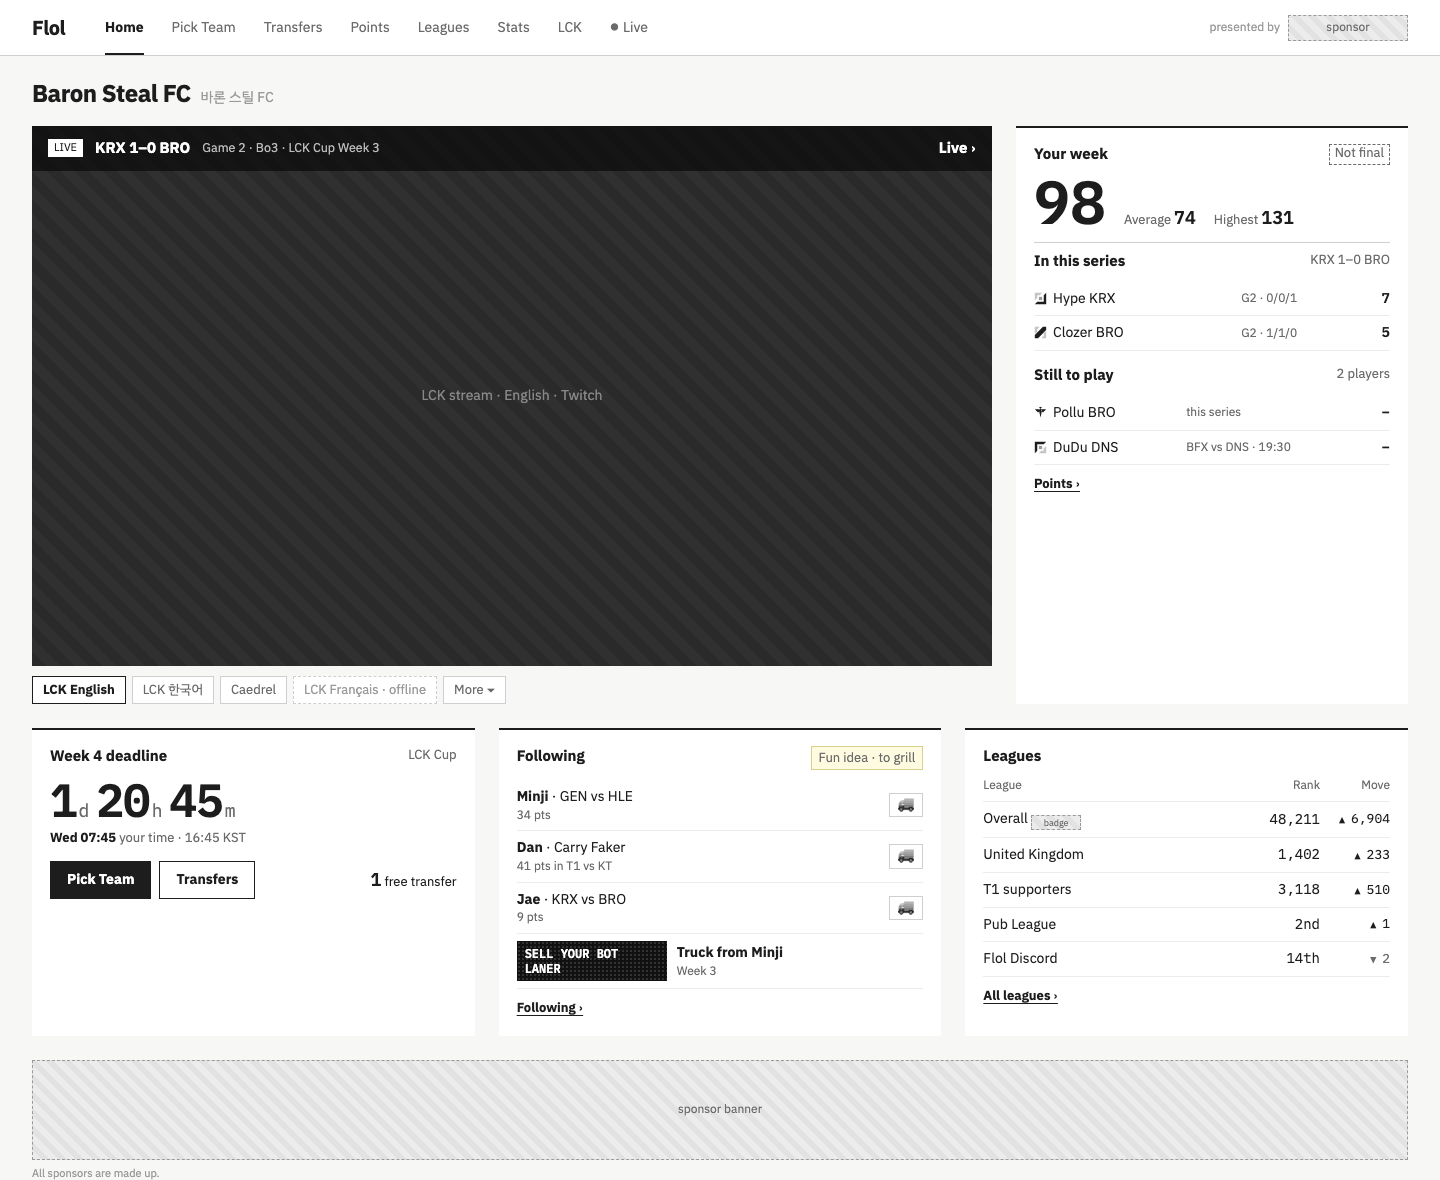
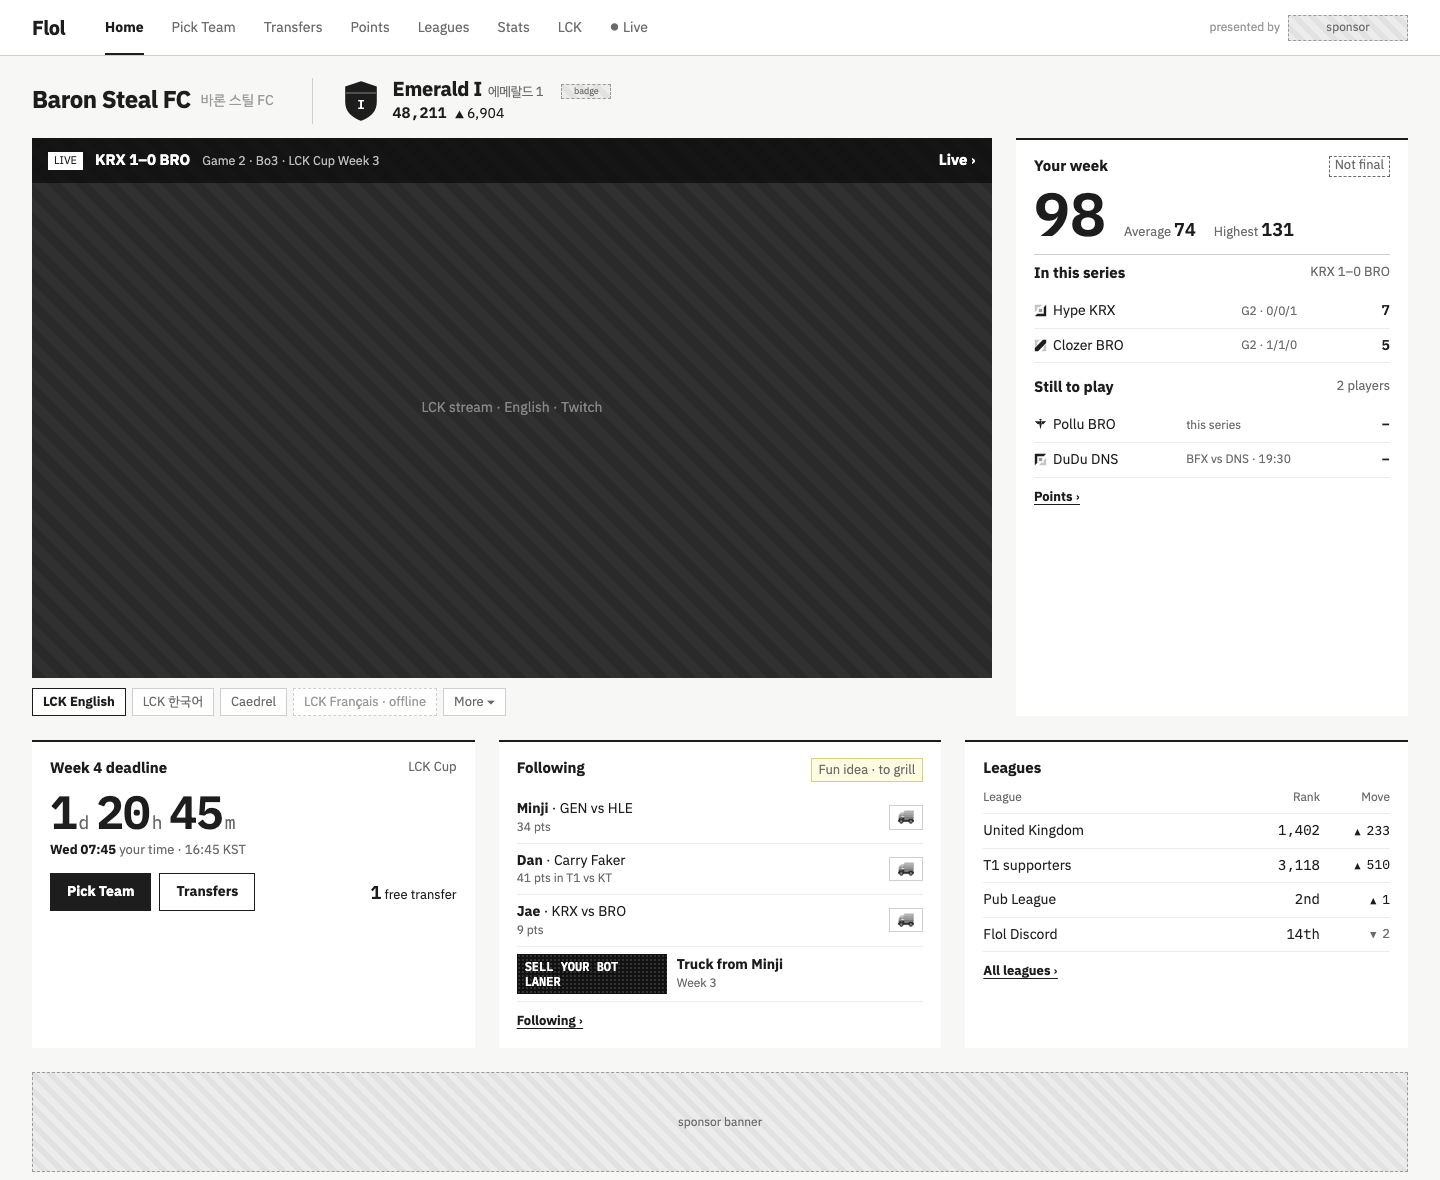
docs: Home redrawn; Overall as a LoL tier with a shield by the team name

diff --git a/docs/design/approved/home/idle.html b/docs/design/approved/home/idle.html
@@ -70,6 +70,16 @@ table.lg { width: 100%; border-collapse: collapse; font-size: 14px; } table.lg t
 .fd small { display: block; color: var(--mid); font-size: 12px; } .fd .tk { border: 1px solid var(--line); padding: 2px 8px; font-size: 13px; filter: grayscale(1); }
 .fd.in { grid-template-columns: 150px 1fr; }
 .idea { display: inline-block; background: #fffbe0; border: 1px solid #d8cf8a; color: #5a5420; font-size: 11px; padding: 2px 7px; margin-left: 8px; font-weight: 400; }
+.top2 { align-items: center; }
+.rankc { display: flex; align-items: center; gap: 12px; margin-left: 28px; padding-left: 28px; border-left: 1px solid var(--line); }
+.rankc svg { width: 40px; height: 46px; display: block; }
+.rankc .tn { font-size: 20px; font-weight: 700; letter-spacing: -.3px; line-height: 1.1; }
+.rankc .tn i { font-style: normal; font-weight: 400; color: var(--mid); font-size: 13px; margin-left: 6px; }
+.rankc .rt { font-size: 14px; color: var(--mid); margin-top: 2px; } .rankc .rt b { font-family: "IBM Plex Mono", monospace; color: var(--ink); font-size: 15px; margin-right: 8px; }
+.gup { color: #1f8a3c; font-weight: 600; } .gup::before { content: "▲ "; font-size: 10px; }
+.board { margin-top: 36px; border-top: 1px dashed var(--soft); padding-top: 18px; }
+.board h3 { font-size: 15px; margin-bottom: 12px; }
+.board .st { color: var(--mid); font-size: 12px; margin-bottom: 4px; display: block; }
 </style></head><body>
 <svg width="0" height="0" style="position:absolute">
   <defs>
@@ -87,7 +97,7 @@ table.lg { width: 100%; border-collapse: collapse; font-size: 14px; } table.lg t
 <nav class="top"><b class="word">Flol</b><a class="on">Home</a><a>Pick Team</a><a>Transfers</a><a>Points</a><a>Leagues</a><a>Stats</a><a>LCK</a><a>Live</a><span class="sp"></span><span class="presented">presented by <span class="ph" style="width:120px;height:26px">sponsor</span></span></nav>
 
 <div class="page">
-<div class="top2"><h1>Baron Steal FC</h1><i>바론 스틸 FC</i><span class="sp"></span></div>
+<div class="top2"><h1>Baron Steal FC</h1><i>바론 스틸 FC</i><div class="rankc"><svg viewBox="0 0 40 46"><path d="M20 4 L35 9 V24 C35 33 28 39 20 42 C12 39 5 33 5 24 V9 Z" fill="#1d1d1d" stroke="#1d1d1d" stroke-width="1.6"/><path d="M5 15 H35" stroke="#fff" stroke-width="1" opacity=".45"/><text x="20" y="31" text-anchor="middle" font-family="IBM Plex Mono" font-weight="600" font-size="12" fill="#fff">I</text></svg><div><div class="tn">Emerald I<i>에메랄드 1</i></div><div class="rt"><b>48,211</b><span class="up">6,904</span></div></div><span class="ph" style="width:50px;height:15px;font-size:9px;margin-left:6px;align-self:flex-start;margin-top:6px">badge</span></div><span class="sp"></span></div>
 <div class="hero"><div><div class="screen"><div class="stage"><div class="cap"><b>Week 4 lineup</b><span>Baron Steal FC · 바론 스틸 FC</span></div><a class="pt">Pick Team ›</a><div class="p" style="left:22px"><svg class="sh" viewBox="0 0 56 50"><use href="#shirt"/></svg><span class="tm">HLE</span><div class="pl"><b>Zeus</b><span>TOP</span></div></div><div class="p" style="left:155px"><svg class="sh" viewBox="0 0 56 50"><use href="#shirt"/></svg><span class="tm">GEN</span><div class="pl"><b>Canyon</b><span>JUNGLE</span></div></div><div class="p" style="left:288px"><svg class="sh" viewBox="0 0 56 50"><use href="#shirt"/></svg><span class="tm">T1</span><span class=mk>C</span><div class="pl"><b>Faker</b><span>MID</span></div></div><div class="p" style="left:421px"><svg class="sh" viewBox="0 0 56 50"><use href="#shirt"/></svg><span class="tm">GEN</span><span class=mk>V</span><div class="pl"><b>Ruler</b><span>BOT</span></div></div><div class="p" style="left:554px"><svg class="sh" viewBox="0 0 56 50"><use href="#shirt"/></svg><span class="tm">HLE</span><div class="pl"><b>Delight</b><span>SUPPORT</span></div></div><div class="p" style="left:687px"><svg class="sh" viewBox="0 0 56 50"><use href="#shirt"/></svg><span class="tm">NS</span><div class="pl"><b>Kingen</b><span>FLEX · TOP</span></div></div><div class="p" style="left:820px"><svg class="sh" viewBox="0 0 56 50"><use href="#shirt"/></svg><span class="tm">T1</span><div class="pl"><b>kkOma</b><span>COACH</span></div></div>
 <div class="nx2"><span>Next on stream</span><b>GEN vs HLE</b><span>Wed 17:00 KST · in <b class="c">1d 21h</b></span></div></div></div></div><aside class="side"><h2>Week 3 <span>final</span></h2>
 <div class="tot"><span class="big">98</span><span class="sm">Average<b>74</b></span><span class="sm">Highest<b>131</b></span></div>
@@ -106,9 +116,8 @@ table.lg { width: 100%; border-collapse: collapse; font-size: 14px; } table.lg t
 <div class="fd in"><div class="led2" style="height:40px">SELL YOUR BOT LANER</div><div><b>Truck from Minji</b><small>Week 3</small></div></div>
 <a class="more">Following ›</a></section>
 <section><h2>Leagues</h2><table class="lg"><tr class="hd"><td>League</td><td class="n">Rank</td><td class="m">Move</td></tr>
-<tr><td>Overall <span class="ph" style="display:inline-flex;width:50px;height:15px;font-size:9px;vertical-align:-3px">badge</span></td><td class="n">48,211</td><td class="m up">6,904</td></tr>
 <tr><td>United Kingdom</td><td class="n">1,402</td><td class="m up">233</td></tr><tr><td>T1 supporters</td><td class="n">3,118</td><td class="m up">510</td></tr>
 <tr><td>Pub League</td><td class="n">2nd</td><td class="m up">1</td></tr><tr><td>Flol Discord</td><td class="n">14th</td><td class="m down">2</td></tr></table><a class="more">All leagues ›</a></section>
 </div>
 <div class="adrow"><div class="ph" style="height:100px">sponsor banner</div><div class="made">All sponsors are made up.</div></div>
-</div></body></html>
+<div class="board"><h3>The tier by the team name: every state</h3><div style="margin-bottom:14px"><span class="st">Before Week 1 final</span><div class="top2" style="margin:0"><h1>Baron Steal FC</h1><i>바론 스틸 FC</i><div class="rankc"><svg viewBox="0 0 40 46"><path d="M20 4 L35 9 V24 C35 33 28 39 20 42 C12 39 5 33 5 24 V9 Z" fill="#fff" stroke="#6b6b6b" stroke-width="1.6"/><text x="20" y="31" text-anchor="middle" font-family="IBM Plex Mono" font-weight="600" font-size="12" fill="#6b6b6b">–</text></svg><div><div class="tn" style="color:var(--mid)">Unranked</div></div><span class="ph" style="width:50px;height:15px;font-size:9px;margin-left:6px;align-self:flex-start;margin-top:6px">badge</span></div></div></div><div style="margin-bottom:14px"><span class="st">A division tier</span><div class="top2" style="margin:0"><h1>Baron Steal FC</h1><i>바론 스틸 FC</i><div class="rankc"><svg viewBox="0 0 40 46"><path d="M20 4 L35 9 V24 C35 33 28 39 20 42 C12 39 5 33 5 24 V9 Z" fill="#1d1d1d" stroke="#1d1d1d" stroke-width="1.6"/><path d="M5 15 H35" stroke="#fff" stroke-width="1" opacity=".45"/><text x="20" y="31" text-anchor="middle" font-family="IBM Plex Mono" font-weight="600" font-size="12" fill="#fff">I</text></svg><div><div class="tn">Emerald I<i>에메랄드 1</i></div><div class="rt"><b>48,211</b><span class="up">6,904</span></div></div><span class="ph" style="width:50px;height:15px;font-size:9px;margin-left:6px;align-self:flex-start;margin-top:6px">badge</span></div></div></div><div style="margin-bottom:14px"><span class="st">Master and Grandmaster</span><div class="top2" style="margin:0"><h1>Baron Steal FC</h1><i>바론 스틸 FC</i><div class="rankc"><svg viewBox="0 0 40 46"><path d="M20 1 L38 7 V24 C38 35 30 42 20 45 C10 42 2 35 2 24 V7 Z" fill="none" stroke="#1d1d1d" stroke-width="1.2"/><path d="M20 4 L35 9 V24 C35 33 28 39 20 42 C12 39 5 33 5 24 V9 Z" fill="#1d1d1d" stroke="#1d1d1d" stroke-width="1.6"/><path d="M5 15 H35" stroke="#fff" stroke-width="1" opacity=".45"/><text x="20" y="31" text-anchor="middle" font-family="IBM Plex Mono" font-weight="600" font-size="12" fill="#fff">M</text></svg><div><div class="tn">Master<i>마스터</i></div><div class="rt"><b>612</b><span class="up">88</span></div></div><span class="ph" style="width:50px;height:15px;font-size:9px;margin-left:6px;align-self:flex-start;margin-top:6px">badge</span></div></div></div><div style="margin-bottom:14px"><span class="st">Challenger</span><div class="top2" style="margin:0"><h1>Baron Steal FC</h1><i>바론 스틸 FC</i><div class="rankc"><svg viewBox="0 0 40 46"><path d="M20 1 L38 7 V24 C38 35 30 42 20 45 C10 42 2 35 2 24 V7 Z" fill="none" stroke="#1d1d1d" stroke-width="1.2"/><path d="M20 4 L35 9 V24 C35 33 28 39 20 42 C12 39 5 33 5 24 V9 Z" fill="#1d1d1d" stroke="#1d1d1d" stroke-width="1.6"/><path d="M5 15 H35" stroke="#fff" stroke-width="1" opacity=".45"/><text x="20" y="31" text-anchor="middle" font-family="IBM Plex Mono" font-weight="600" font-size="12" fill="#fff">C</text></svg><div><div class="tn">Challenger<i>챌린저</i></div><div class="rt"><b>4th</b><span class="gup">2</span></div></div><span class="ph" style="width:50px;height:15px;font-size:9px;margin-left:6px;align-self:flex-start;margin-top:6px">badge</span></div></div></div></div></div></body></html>

diff --git a/docs/design/approved/home/live.html b/docs/design/approved/home/live.html
@@ -70,6 +70,16 @@ table.lg { width: 100%; border-collapse: collapse; font-size: 14px; } table.lg t
 .fd small { display: block; color: var(--mid); font-size: 12px; } .fd .tk { border: 1px solid var(--line); padding: 2px 8px; font-size: 13px; filter: grayscale(1); }
 .fd.in { grid-template-columns: 150px 1fr; }
 .idea { display: inline-block; background: #fffbe0; border: 1px solid #d8cf8a; color: #5a5420; font-size: 11px; padding: 2px 7px; margin-left: 8px; font-weight: 400; }
+.top2 { align-items: center; }
+.rankc { display: flex; align-items: center; gap: 12px; margin-left: 28px; padding-left: 28px; border-left: 1px solid var(--line); }
+.rankc svg { width: 40px; height: 46px; display: block; }
+.rankc .tn { font-size: 20px; font-weight: 700; letter-spacing: -.3px; line-height: 1.1; }
+.rankc .tn i { font-style: normal; font-weight: 400; color: var(--mid); font-size: 13px; margin-left: 6px; }
+.rankc .rt { font-size: 14px; color: var(--mid); margin-top: 2px; } .rankc .rt b { font-family: "IBM Plex Mono", monospace; color: var(--ink); font-size: 15px; margin-right: 8px; }
+.gup { color: #1f8a3c; font-weight: 600; } .gup::before { content: "▲ "; font-size: 10px; }
+.board { margin-top: 36px; border-top: 1px dashed var(--soft); padding-top: 18px; }
+.board h3 { font-size: 15px; margin-bottom: 12px; }
+.board .st { color: var(--mid); font-size: 12px; margin-bottom: 4px; display: block; }
 </style></head><body>
 <svg width="0" height="0" style="position:absolute">
   <defs>
@@ -87,7 +97,7 @@ table.lg { width: 100%; border-collapse: collapse; font-size: 14px; } table.lg t
 <nav class="top"><b class="word">Flol</b><a class="on">Home</a><a>Pick Team</a><a>Transfers</a><a>Points</a><a>Leagues</a><a>Stats</a><a>LCK</a><a class="live">Live</a><span class="sp"></span><span class="presented">presented by <span class="ph" style="width:120px;height:26px">sponsor</span></span></nav>
 
 <div class="page">
-<div class="top2"><h1>Baron Steal FC</h1><i>바론 스틸 FC</i><span class="sp"></span></div>
+<div class="top2"><h1>Baron Steal FC</h1><i>바론 스틸 FC</i><div class="rankc"><svg viewBox="0 0 40 46"><path d="M20 4 L35 9 V24 C35 33 28 39 20 42 C12 39 5 33 5 24 V9 Z" fill="#1d1d1d" stroke="#1d1d1d" stroke-width="1.6"/><path d="M5 15 H35" stroke="#fff" stroke-width="1" opacity=".45"/><text x="20" y="31" text-anchor="middle" font-family="IBM Plex Mono" font-weight="600" font-size="12" fill="#fff">I</text></svg><div><div class="tn">Emerald I<i>에메랄드 1</i></div><div class="rt"><b>48,211</b><span class="up">6,904</span></div></div><span class="ph" style="width:50px;height:15px;font-size:9px;margin-left:6px;align-self:flex-start;margin-top:6px">badge</span></div><span class="sp"></span></div>
 <div class="hero"><div><div class="screen"><div class="ph2">LCK stream · English · Twitch</div>
 <div class="ov"><span class="tag live">LIVE</span><b>KRX 1–0 BRO</b><small>Game 2 · Bo3 · LCK Cup Week 3</small><span style="flex:1"></span><a style="color:#fff;font-weight:700">Live ›</a></div></div>
 <div class="pick"><span class="on">LCK English</span><span>LCK 한국어</span><span>Caedrel</span><span class="off">LCK Français · offline</span><span>More ▾</span></div></div><aside class="side"><h2>Your week <span class="tag prov">Not final</span></h2>
@@ -110,7 +120,6 @@ table.lg { width: 100%; border-collapse: collapse; font-size: 14px; } table.lg t
 <div class="fd in"><div class="led2" style="height:40px">SELL YOUR BOT LANER</div><div><b>Truck from Minji</b><small>Week 3</small></div></div>
 <a class="more">Following ›</a></section>
 <section><h2>Leagues</h2><table class="lg"><tr class="hd"><td>League</td><td class="n">Rank</td><td class="m">Move</td></tr>
-<tr><td>Overall <span class="ph" style="display:inline-flex;width:50px;height:15px;font-size:9px;vertical-align:-3px">badge</span></td><td class="n">48,211</td><td class="m up">6,904</td></tr>
 <tr><td>United Kingdom</td><td class="n">1,402</td><td class="m up">233</td></tr><tr><td>T1 supporters</td><td class="n">3,118</td><td class="m up">510</td></tr>
 <tr><td>Pub League</td><td class="n">2nd</td><td class="m up">1</td></tr><tr><td>Flol Discord</td><td class="n">14th</td><td class="m down">2</td></tr></table><a class="more">All leagues ›</a></section>
 </div>

diff --git a/docs/design/approved/home/README.md b/docs/design/approved/home/README.md
@@ -2,7 +2,7 @@
 
 The signed-in start page, at 1440. A manager reaches it from **Home** in the top bar or the Flol wordmark, and lands on it after sign-in. It has two states: a series live, and nothing live.
 
-**Approved:** Craig, 13 Nov 2026. He said Home looked "too similar to points and transfers" and "should probably have the live stream viewer"; on the redraw, "In think so", then yes to the muted stream, the lineup when nothing is live, and star and flop, then "Yes" to saving. Names, teams and numbers are a made-up LCK Cup Week 3, not roster data. No `plate.md` yet: this binds layout, content and order, not colour or type.
+**Approved:** Craig, 13 Nov 2026. He said Home looked "too similar to points and transfers" and "should probably have the live stream viewer"; on the redraw, "In think so", then yes to the muted stream, the lineup when nothing is live, and star and flop, then "Yes" to saving. Overall as a LoL tier, redrawn 14 Nov 2026: Craig asked for "the rank with shield" at the top by Baron Steal FC, no total of managers, and no repeat of it in Leagues; then "Yes, C". Names, teams and numbers are a made-up LCK Cup Week 3, not roster data. No `plate.md` yet: this binds layout, content and order, not colour or type.
 
 | File | Shows |
 |---|---|
@@ -13,20 +13,23 @@ The signed-in start page, at 1440. A manager reaches it from **Home** in the top
 
 - **FPL's old Status page**: your points between Average and Highest, Pick Team and Transfers beside the deadline countdown. Research: [docs/research/home-page-references.md](../../../research/home-page-references.md).
 - **An LCK lineup reveal**: the starters stand on angled name plates, from a broadcast shot Craig sent.
+- **LoL ranked**: Iron to Challenger, divisions IV to I; the shield is Flol's own shape, not Riot's emblem art.
 - **lolesports.com**: the series as fans read it, "KRX 1–0 BRO · Game 2 · Bo3". Shot in [docs/design/references/home/](../../references/home/).
 
 ## Layout
 
-- **Top:** the team name and its hangul.
+- **Top:** the team name and its hangul; beside it, Overall as a LoL tier: a shield, the tier and its hangul, the overall rank and move beneath, the sponsor's badge. The idle file's foot shows every state: Unranked, a division tier, Master or Grandmaster, Challenger (its rank, a green arrow).
 - **Left, live:** the stream, muted, the series and **Live ›** over it; the stream picker under it (spec/12's list).
 - **Left, idle:** Week 4 lineup: the seven starters (five roles, Flex, Coach) with C and V; the next series on stream and when; **Pick Team ›**.
 - **Right, live:** your week (not final) with Average and Highest; your players in this series with live points; who is still to play; **Points ›**.
 - **Right, idle:** last week (final) with Average and Highest; star and flop; **Points ›**.
-- **Below, three cards:** the deadline (countdown, your time and KST, Pick Team, Transfers, free transfers); Following (spec/14); Leagues (rank and move, the sponsor's badge on Overall, **All leagues ›**).
+- **Below, three cards:** the deadline (countdown, your time and KST, Pick Team, Transfers, free transfers); Following (spec/14); Leagues (each league's rank and move, Overall left out since the top shows it, **All leagues ›**).
 - **Bottom:** a sponsor banner and "All sponsors are made up." (spec/13).
 - The nav's Live dot shows only while a series is live.
 
 ## Still open
+
+- Overall as a tier is a want in [docs/to-grill.md](../../../to-grill.md), not specced; its cut-offs and the top three tiers at beta size are open there.
 
 - The stream on Home, the lineup when idle, and star and flop are specced in [spec/12](../../../../spec/12-pages.md#home) (14 Nov 2026). Star and flop now use effective ownership, so the drawn pair is a placeholder.
 - **Following** is specced in [spec/14](../../../../spec/14-following.md) (14 Nov 2026). The drawn card's items and its "Fun idea · to grill" tag are placeholders.
@@ -39,6 +42,7 @@ The signed-in start page, at 1440. A manager reaches it from **Home** in the top
 | Final points, Average and Highest | #33 |
 | Free transfers | #20 |
 | Leagues, ranks and moves | #38 |
+| Overall tier, its cut-offs and shield | to-grill |
 | Series and player stats | #36 |
 | Streams list and picker | spec/12, no issue yet |
 | Sponsor slots and badge | spec/13, no issue yet |

diff --git a/docs/to-grill.md b/docs/to-grill.md
@@ -13,26 +13,26 @@ Craig's want: Overall shows your rank as a LoL tier, Iron to Challenger, as the 
 His yes came in the Points design round, drawn there as "Overall · Emerald I" and "≈6 pts to
 Diamond IV", and again in chat; not specced.
 
-- The tier leads; the rank out of all managers sits smaller beneath. Example: Gold III,
-  58,000 of 120,000.
+- The tier leads; the overall rank sits smaller beneath, with no total of managers (Craig,
+  14 Nov 2026). Example: Emerald I, 48,211.
 - Promotion and demotion: Points shows your tier and the points to promote, or to avoid
   demotion.
 - Iron to Diamond have divisions IV to I. Master and Grandmaster show the tier name, the rank
-  beneath. Challenger is numbered, needs no rank beneath, and gets a green arrow for its move.
-  Example: Challenger 4.
+  beneath. Challenger is numbered by its overall rank and gets a green arrow for its move.
+  Example: Challenger, 4th ▲2.
 - Cut-offs by percentile, as data, from all-server solo queue data. Diamond IV is the top
   4.4%; the median manager is Gold III, about where Legend (Split 1's top half) ends.
 - Everyone is Unranked until gameweek 1 is final.
 - A rules page explains the tiers. Spec/09 has only a Help page for the beta.
 - Only Overall: country, supporter and private leagues keep plain numbers.
-- Changes Home's approved Leagues card, so it needs a `/design` round.
+- Drawn on Home (approved 14 Nov 2026): the tier with a shield by the team name, and the
+  Leagues card drops its Overall row ([docs/design/approved/home/](design/approved/home/)).
 
 - Master, Grandmaster and Challenger at beta size: a late call, once sign-ups are known (Craig,
   14 Nov 2026). Percentiles alone fail small: at 2,000 managers the top 0.02% is under one
   person; fixed seats are one option (example: Challenger is the top 10).
 
-Open: where the rank out of all managers sits (settled in the `/design` round); whether tiers
-show on Leagues' Overall table and profiles; how the points to promote are estimated.
+Open: whether tiers show on Leagues' Overall table and profiles; how the points to promote are estimated.
 
 Draft cut-offs (top % of Overall), from 2026 tier shares split by Gold's division ratios
 ([nerfplz](https://www.nerfplz.com/2026/08/league-of-legends-rank-distribution.html),
